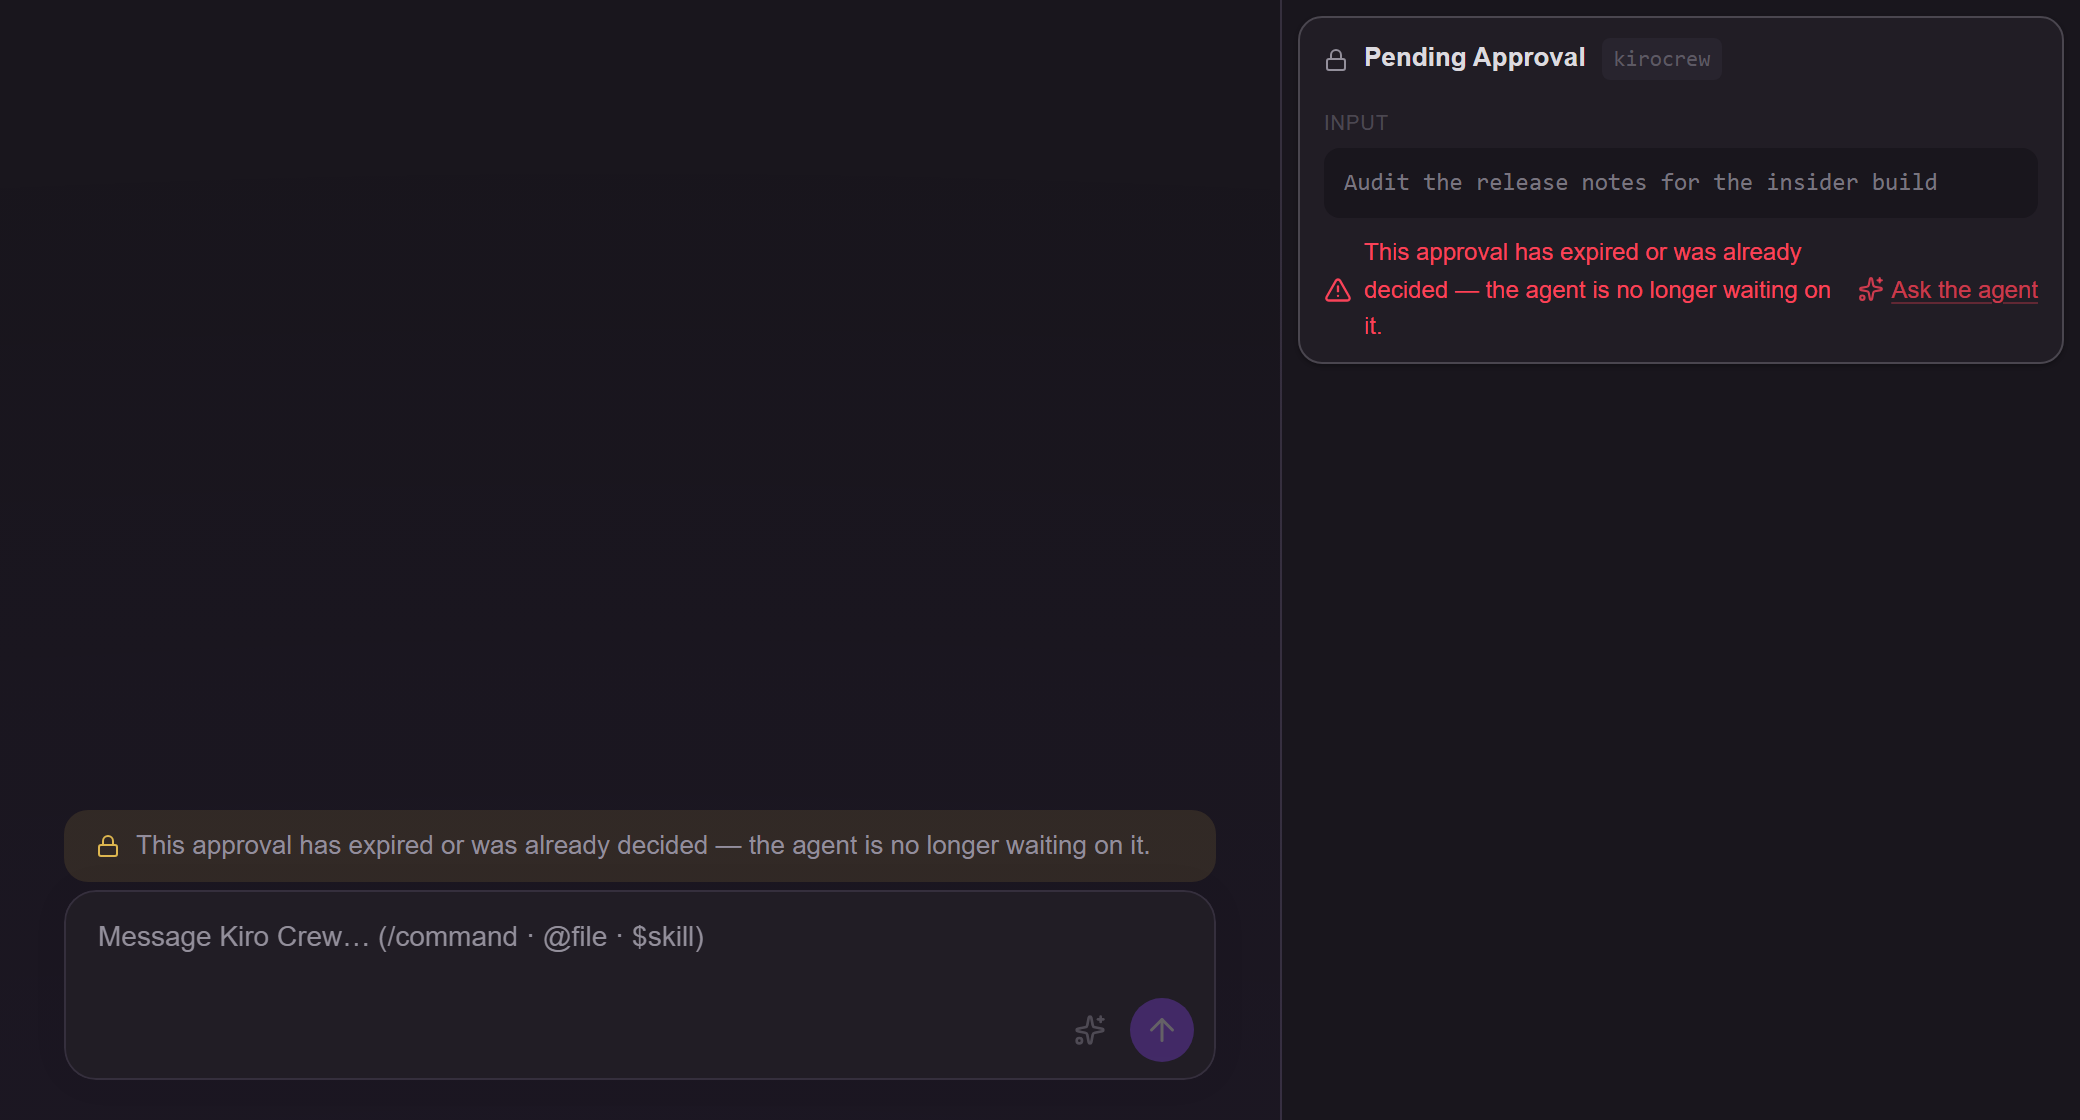
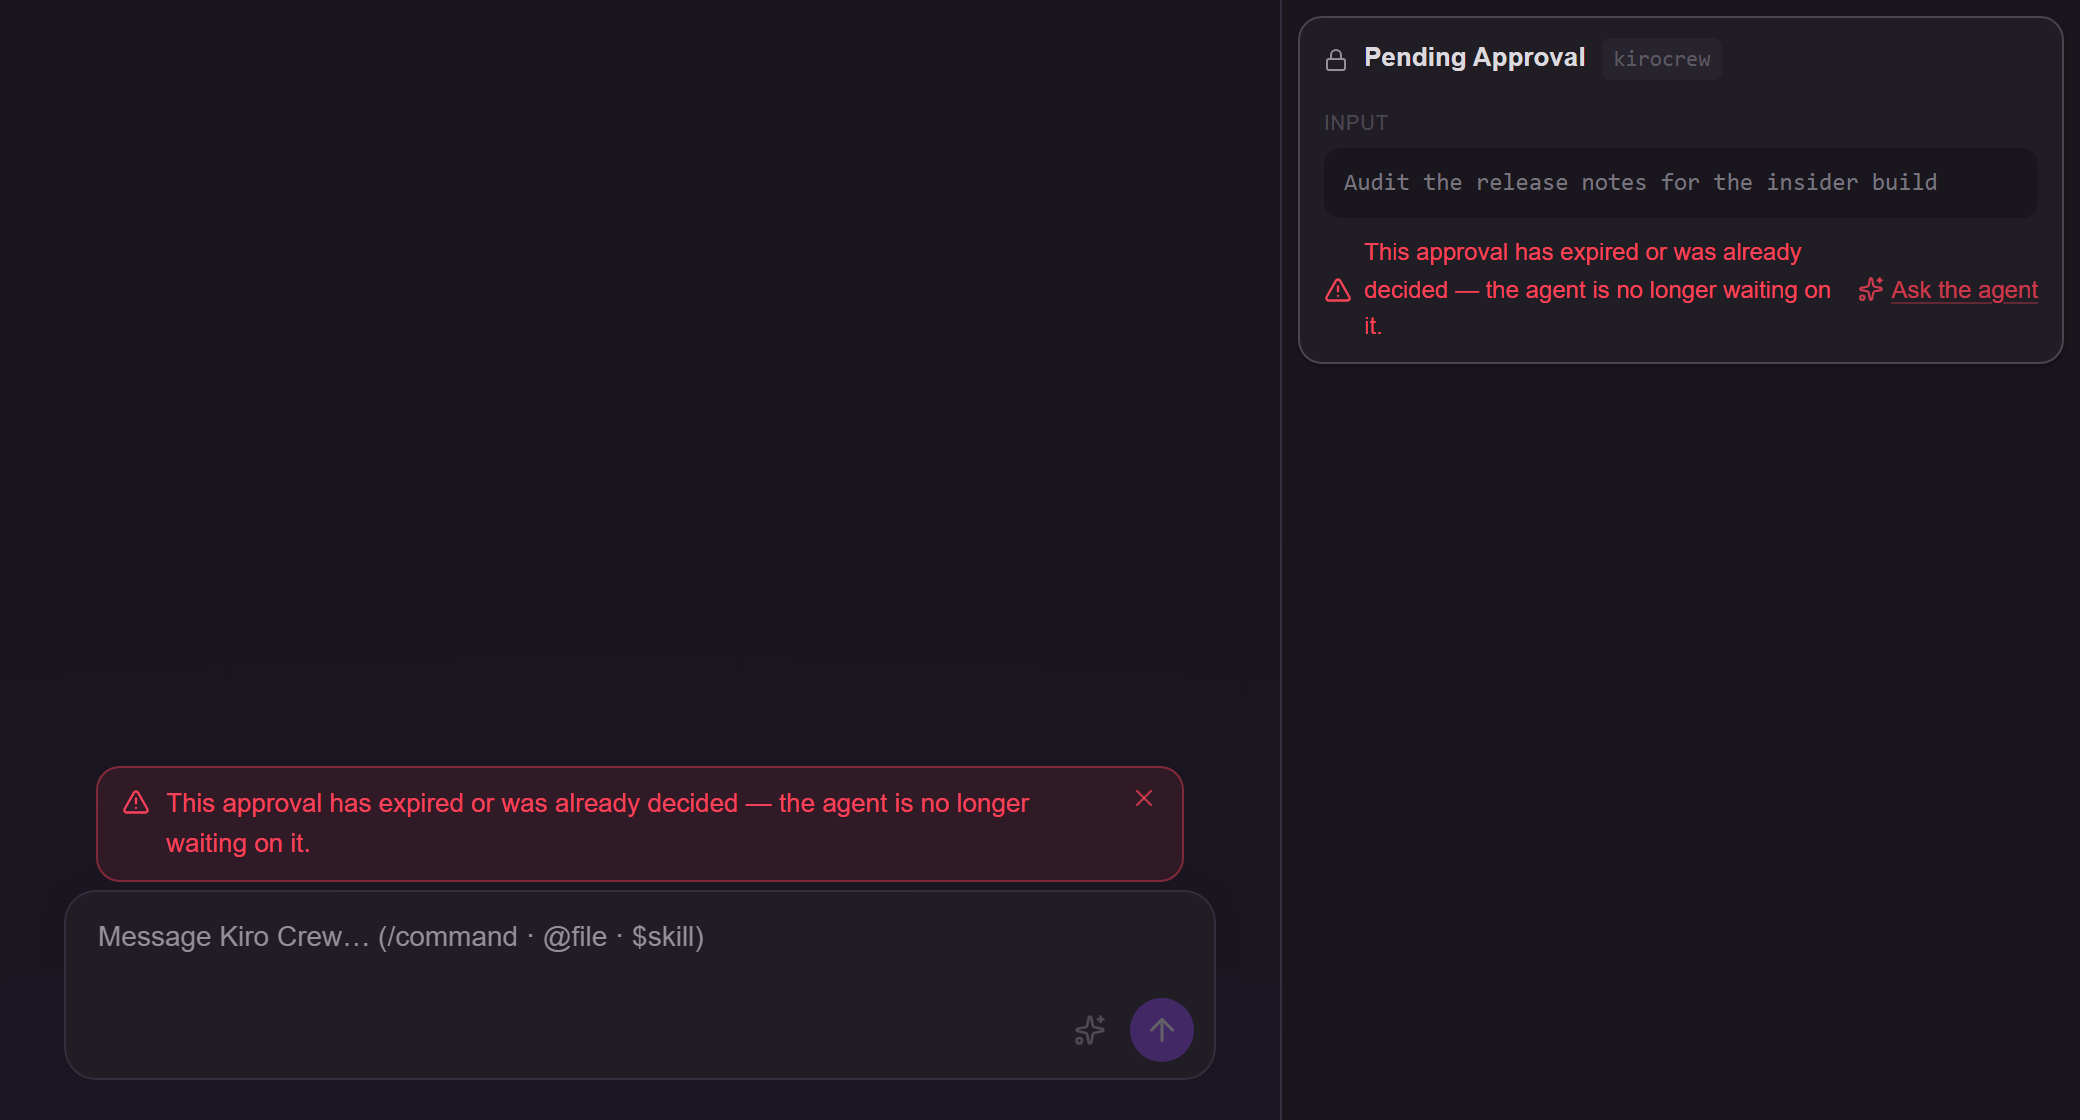
fix(dashboard): make a gone spawn approval an error everywhere it shows
Review of the first commit found three places where the terminal
verdict was not honoured consistently.

The composer rendered the refusal through the passive status strip.
It is the outcome of a rejected request, so errors-use-error-notice
(blocking) requires ErrorNotice; the panel already shows the same
sentence that way. The notice now takes the existing error route.

The panel card preferred an older transient failure over the store's
terminal verdict (actionError ?? storeGone), so after the composer
found the approval gone the card hid its buttons but still said
retry. The terminal verdict now wins.

isAwaitingSpawnApproval ignored the verdict, so after both surfaces
withdrew the decision the sidebar count, the wave chip row and the
run card still said the user owed it. The predicate now excludes a
gone approval, which also replaces the composer selector's private
filter. Such a run launched nothing, so the chip drops it instead of
counting it as running, and the run card tallies it as unknown
(#7318). A fresh approval id on the card is counted again.

The two "after" screenshots are recaptured for the ErrorNotice.

Changed region(s): [[0.0625, 0.6875, 0.5625, 0.7812]]

diff --git a/website/src/test/ActivityViewerCoverage.test.tsx b/website/src/test/ActivityViewerCoverage.test.tsx
@@ -51,7 +51,7 @@ import ActivityViewer from '../pages/chat/ActivityViewer'
 import { countDiffStats } from '../utils/diffLineCounts'
 import { api } from '../api/client'
 import { createTestStore } from './helpers'
-import { openActivityToTab, selectSubagent, selectSlotPendingSpawnApprovals } from '../store/chatSlice'
+import { openActivityToTab, selectSubagent, selectSlotPendingSpawnApprovals, markSubagentApprovalGone } from '../store/chatSlice'
 import { __resetPanelTabs } from '../hooks/usePanelTabs'
 import type { SubagentActivity, ToolActivity, Artifact } from '../types'
 import type { ExtractedLink } from '../utils/extractChatLinks'
@@ -356,6 +356,33 @@ describe('ActivityViewer — subagent card controls', () => {
     expect(screen.getByRole('alert')).toHaveTextContent(
       i18nT('components.approvalCard.approval_no_longer_pending'),
     )
+  })
+
+  it('a terminal verdict from the store outranks an older transient failure here', async () => {
+    // First press fails transiently: the card keeps its buttons and says retry.
+    vi.mocked(api.resolveApproval).mockRejectedValue(new Error('boom'))
+    const pending = mkAgent('p1', { status: 'pending', approval_id: 'ap-1' })
+    const { store, rerender } = renderPanel(
+      <ActivityViewer {...baseProps} view="subagents" subagents={{ p1: pending }} />,
+      storeTracking(pending),
+    )
+    fireEvent.click(screen.getByRole('button', { name: 'Approve' }))
+    const retry = i18nT('components.approvalCard.decision_not_recorded_error', { error: 'boom' })
+    await waitFor(() => expect(screen.getByRole('alert')).toHaveTextContent(retry))
+
+    // Then the composer finds the SAME approval gone and records it in the
+    // store; SidePanel feeds the pane from that store (selectSlotSubagents).
+    act(() => { store.dispatch(markSubagentApprovalGone({ id: 'p1', approval_id: 'ap-1' })) })
+    const fromStore = store.getState().chat.subagents.p1!
+    expect(fromStore.approvalGone).toBe('ap-1')
+    rerender(<ActivityViewer {...baseProps} view="subagents" subagents={{ p1: fromStore }} />)
+
+    expect(screen.queryByRole('button', { name: 'Approve' })).not.toBeInTheDocument()
+    expect(screen.queryByRole('button', { name: 'Reject' })).not.toBeInTheDocument()
+    expect(screen.getByRole('alert')).toHaveTextContent(
+      i18nT('components.approvalCard.approval_no_longer_pending'),
+    )
+    expect(screen.getByRole('alert')).not.toHaveTextContent(retry)
   })
 
   it('re-offers the buttons when the pane gets a NEW approval id (#11180)', async () => {

diff --git a/website/src/test/SubagentProgressBar.parkedApproval.test.tsx b/website/src/test/SubagentProgressBar.parkedApproval.test.tsx
@@ -22,6 +22,7 @@ import { Provider } from 'react-redux'
 import { configureStore } from '@reduxjs/toolkit'
 import chatReducer, {
   setActiveSlot, sseSubagentPending, sseSubagentSpawn, sseSubagentStalled,
+  markSubagentApprovalGone, selectSidebarApprovalCounts,
 } from '../store/chatSlice'
 import dashboardReducer from '../store/dashboardSlice'
 import notificationsReducer from '../store/notificationsSlice'
@@ -123,5 +124,40 @@ describe('subagent parked on a spawn approval', () => {
     })
     expect(runningCount(container)).toBe('2')
     expect(container.querySelector('[data-testid="subagent-awaiting-count"]')).toBeNull()
+  })
+})
+
+/**
+ * A resolve that came back terminal (404 / 400 "no pending approval") records the
+ * approval as gone. The composer and the activity panel both withdraw its
+ * buttons, so no other surface may keep telling the user they owe that decision
+ * -- and since nothing proves the run launched, it must not turn into a running
+ * one either (#7318).
+ */
+describe('subagent whose spawn approval is gone', () => {
+  const goneSeed = (d: (a: unknown) => void) => d(markSubagentApprovalGone({ id: 'p0', approval_id: 'spawn:p0' }))
+
+  it('is neither awaiting nor running, and its row no longer asks for approval', () => {
+    const { container } = chip({ parked: 1, running: 1, seed: goneSeed })
+    expect(runningCount(container)).toBe('1')
+    expect(container.querySelector('[data-testid="subagent-awaiting-count"]')).toBeNull()
+    expect(container.textContent).not.toContain(PARKED_LABEL)
+  })
+
+  it('leaves the sidebar approval count', () => {
+    const { store } = chip({ parked: 2, seed: goneSeed })
+    expect(selectSidebarApprovalCounts(store.getState())).toEqual({ [SLOT]: 1 })
+  })
+
+  it('counts again once the card carries a fresh approval', () => {
+    const { container } = chip({
+      parked: 1,
+      seed: d => {
+        goneSeed(d)
+        d(sseSubagentPending({ slot: SLOT, id: 'p0', task: 'parked 0', approval_id: 'spawn:p0:2' }))
+      },
+    })
+    expect(awaitingCount(container)).toBe('1')
+    expect(container.textContent).toContain(PARKED_LABEL)
   })
 })

diff --git a/website/src/store/chatSlice.ts b/website/src/store/chatSlice.ts
@@ -3962,9 +3962,17 @@ const countActiveSubagents = (m?: Record<string, SubagentActivity>) => {
  * `approval_id` is the load-bearing half — `sseSubagentPending` is the only
  * writer of `'pending'` and always sets it, so its absence means a card built
  * some other way and must not be claimed as blocked on the user.
+ *
+ * A gone approval (`markSubagentApprovalGone`) is excluded: once a resolve has
+ * proved it decided or expired, no surface can take the decision, so none may
+ * say the user owes it. Such a run launched nothing either, so a tally that
+ * would otherwise fall through to "running" must check `isSpawnApprovalGone`.
  */
+export const isSpawnApprovalGone = (a: SubagentActivity) =>
+  !!a.approval_id && a.approvalGone === a.approval_id
+
 export const isAwaitingSpawnApproval = (a: SubagentActivity) =>
-  a.status === 'pending' && !!a.approval_id
+  a.status === 'pending' && !!a.approval_id && !isSpawnApprovalGone(a)
 
 /** Counts subagents pending spawn approval in a subagent map. */
 const countPendingApprovals = (m?: Record<string, SubagentActivity>) => {
@@ -3996,9 +4004,7 @@ export const selectSlotPendingSpawnApprovals = (state: RootState, slot: string |
   if (!slot) return _EMPTY_PENDING_SPAWNS
   const subs = getSlotSubs(state.chat, slot)
   if (!subs) return _EMPTY_PENDING_SPAWNS
-  // A gone approval is still parked (the run tallies keep counting it), but the
-  // banner's buttons can only re-send a refusal, so it leaves this list.
-  const out = Object.values(subs).filter(a => isAwaitingSpawnApproval(a) && a.approvalGone !== a.approval_id)
+  const out = Object.values(subs).filter(isAwaitingSpawnApproval)
   return out.length ? out : _EMPTY_PENDING_SPAWNS
 }
 

diff --git a/website/src/pages/chat/ActivityViewer.tsx b/website/src/pages/chat/ActivityViewer.tsx
@@ -18,7 +18,7 @@ import IssuePanel from '../../components/IssuePanel'
 import { PinnedMessagesPanel } from './PinnedMessagesPanel'
 import type { ChatPin } from '../../api/pins'
 import { useAppSelector, useAppDispatch } from '../../store'
-import { markSubagentApproving, markSubagentApprovalGone, openActivityToTab, selectSubagent, clearTerminalSubagents, sseSubagentDone } from '../../store/chatSlice'
+import { markSubagentApproving, markSubagentApprovalGone, isSpawnApprovalGone, openActivityToTab, selectSubagent, clearTerminalSubagents, sseSubagentDone } from '../../store/chatSlice'
 import SegmentedControl from '../../components/SegmentedControl'
 import { PanelSectionHeader } from '../../components/ui'
 import SideChat from './SideChat'
@@ -167,9 +167,10 @@ function SubagentPane({ a, slot, onClick, selected }: { a: SubagentActivity; slo
   }, [a.approval_id, a.id, slot, dispatch])
 
   // A refusal found through the composer banner lands here via the store, so
-  // this card withdraws the same approval and says why.
-  const storeGone = isPending && !!a.approval_id && a.approvalGone === a.approval_id
-  const shownError = actionError ?? (storeGone ? i18nT('components.approvalCard.approval_no_longer_pending') : null)
+  // this card withdraws the same approval and says why. The terminal verdict
+  // outranks an older transient failure from a press here, which it supersedes.
+  const storeGone = isPending && isSpawnApprovalGone(a)
+  const shownError = storeGone ? i18nT('components.approvalCard.approval_no_longer_pending') : actionError
 
   // Live elapsed timer for running subagents
   const [elapsed, setElapsed] = useState(0)

diff --git a/website/src/pages/chat/SubagentProgressBar.tsx b/website/src/pages/chat/SubagentProgressBar.tsx
@@ -2,7 +2,7 @@ import { useState, useRef, useEffect, useMemo, useCallback, memo } from 'react'
 import { useMutation } from '@tanstack/react-query'
 import { Bot, X, AlertTriangle, Loader2, CheckCircle, AlertCircle, Square, RotateCcw, Clock, ChevronRight, Hand } from 'lucide-react'
 import { useAppSelector, useAppDispatch } from '../../store'
-import { openActivityToTab, selectSubagent, sseSubagentDone, isAwaitingSpawnApproval } from '../../store/chatSlice'
+import { openActivityToTab, selectSubagent, sseSubagentDone, isAwaitingSpawnApproval, isSpawnApprovalGone } from '../../store/chatSlice'
 import { api } from '../../api/client'
 import { sanitizeLlmOutput } from '../../utils/sanitize'
 import ErrorNotice from '../../components/ErrorNotice'
@@ -128,7 +128,9 @@ const SubagentProgressBar = memo(function SubagentProgressBar({ slot }: { slot: 
   // Exception-first ordering: retrying/stalled agents need eyes; the healthy
   // majority collapses behind the summary row at scale.
   const activeList = useMemo(() => {
-    const act = all.filter(a => a.status === 'running' || a.status === 'tool' || a.status === 'pending')
+    // A pending run whose approval proved gone is neither in flight nor owed
+    // to the user, so it leaves the chip rather than becoming "running".
+    const act = all.filter(a => a.status === 'running' || a.status === 'tool' || (a.status === 'pending' && !isSpawnApprovalGone(a)))
     const rank = (a: SubagentActivity) => (a.retrying ? 0 : a.stalled ? 1 : a.status === 'pending' ? 2 : 3)
     return act.sort((x, y) => rank(x) - rank(y))
   }, [all])

diff --git a/website/src/test/ChatInput.approval.test.tsx b/website/src/test/ChatInput.approval.test.tsx
@@ -687,9 +687,14 @@ describe('ChatInput sub-agent spawn-approval banner', () => {
     await waitFor(() => {
       expect(screen.queryByText(/awaiting your approval to run/)).not.toBeInTheDocument()
     })
-    expect(screen.getByRole('status')).toHaveTextContent(
+    // A rejected request is an error (AUTOSDE errors-use-error-notice), and the
+    // panel shows this same sentence through ErrorNotice: not the status strip.
+    expect(screen.getByTestId('approval-decision-error')).toHaveAttribute('role', 'alert')
+    expect(screen.getByTestId('approval-decision-error')).toHaveTextContent(
       i18nT('components.approvalCard.approval_no_longer_pending'),
     )
+    const gone = i18nT('components.approvalCard.approval_no_longer_pending')
+    expect(screen.queryAllByRole('status').filter(el => el.textContent?.includes(gone))).toEqual([])
     expect(api.resolveApproval).toHaveBeenCalledTimes(1)
     // No outcome is known, so the card is withdrawn, not terminated: an
     // approval decided elsewhere still converges on its own spawn stream.
@@ -708,6 +713,7 @@ describe('ChatInput sub-agent spawn-approval banner', () => {
     })
     expect(screen.getByRole('button', { name: /^Approve$/ })).toBeInTheDocument()
     expect(screen.queryByText(i18nT('components.approvalCard.approval_no_longer_pending'))).not.toBeInTheDocument()
+    expect(screen.queryByTestId('approval-decision-error')).not.toBeInTheDocument()
   })
 
   it('withdraws only the gone sub-agent from a multi-agent banner', async () => {

diff --git a/website/src/pages/chat/SubagentRunCard.tsx b/website/src/pages/chat/SubagentRunCard.tsx
@@ -17,7 +17,7 @@ import { memo } from 'react'
 import { Bot, Loader2, CheckCircle2, AlertCircle, Clock, Square, Hand } from 'lucide-react'
 import { PanelRightSolid } from '../../components/icons/panels'
 import { useAppSelector, useAppDispatch } from '../../store'
-import { openActivityToTab, selectSubagent, switchSlot, isAwaitingSpawnApproval } from '../../store/chatSlice'
+import { openActivityToTab, selectSubagent, switchSlot, isAwaitingSpawnApproval, isSpawnApprovalGone } from '../../store/chatSlice'
 import { sanitizeLlmOutput } from '../../utils/sanitize'
 import type { ChatMessage, SubagentActivity } from '../../types'
 import { SPAWN_LAUNCH_MARKER } from './types'
@@ -153,6 +153,9 @@ function tally(agents: (SubagentActivity | undefined)[]) {
     // (#7318). A `'pending'` entry with no approval_id keeps the old treatment:
     // it is active but not attributable to an approval.
     if (isAwaitingSpawnApproval(a)) awaiting++
+    // Its approval proved gone: decided or expired unseen, so neither owed to
+    // the user nor known to have launched. Outcome unknown, like a dropped id.
+    else if (a.status === 'pending' && isSpawnApprovalGone(a)) unknown++
     else if (a.status === 'running' || a.status === 'tool' || a.status === 'pending') running++
     else if (a.status === 'done') done++
     else if (a.status === 'error') failed++

diff --git a/website/src/test/SubagentRunCard.test.tsx b/website/src/test/SubagentRunCard.test.tsx
@@ -508,4 +508,13 @@ describe('SubagentRunCard — a run parked on a spawn approval is not running', 
     expect(screen.getByText('2 agents running')).toBeTruthy()
     expect(screen.queryByTestId('subagent-card-awaiting')).toBeNull()
   })
+  it('neither awaits nor runs a member whose approval is gone', () => {
+    // A terminal refusal withdrew the decision everywhere it is offered, and no
+    // outcome is known: not owed to the user, and not a launched process.
+    const gone = { ...parked('a1'), approvalGone: 'spawn:a1' } as SubagentActivity
+    const store = storeWith({ a1: gone, a2: agent('a2', 'running') })
+    renderWithProviders(<SubagentRunCard launch={launch} slot={SLOT} />, { store })
+    expect(screen.getByText('1 agent running')).toBeTruthy()
+    expect(screen.queryByTestId('subagent-card-awaiting')).toBeNull()
+  })
 })

diff --git a/website/src/components/ChatInput.tsx b/website/src/components/ChatInput.tsx
@@ -1328,7 +1328,9 @@ function ChatInput({
       // instead of leaving buttons that can only re-send it.
       if (isTerminalApprovalRefusal(err) && a.approval_id) {
         dispatch(markSubagentApprovalGone({ id: a.id, approval_id: a.approval_id }))
-        setApprovalNoticeKind('status')
+        // A rejected request, so an error surface; the panel shows this same
+        // sentence through ErrorNotice too.
+        setApprovalNoticeKind('error')
         setApprovalNotice(i18nT('components.approvalCard.approval_no_longer_pending'))
         return
       }
